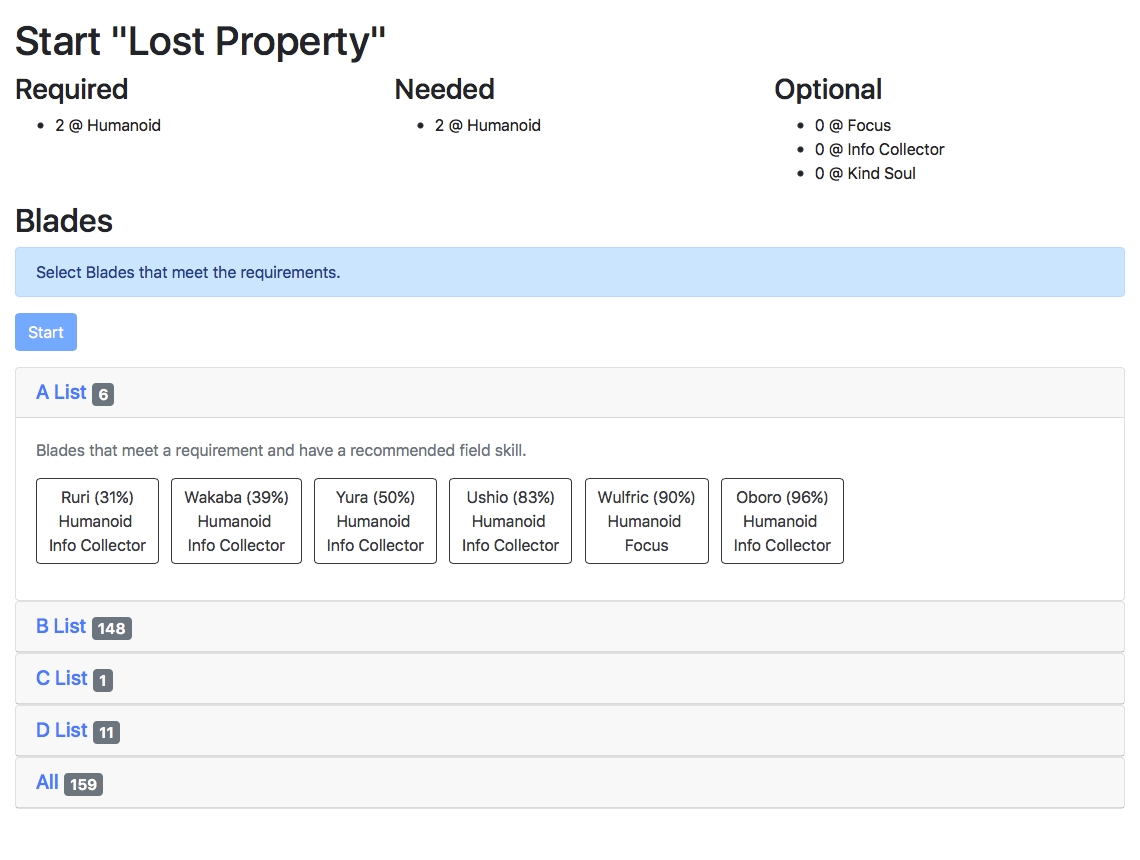
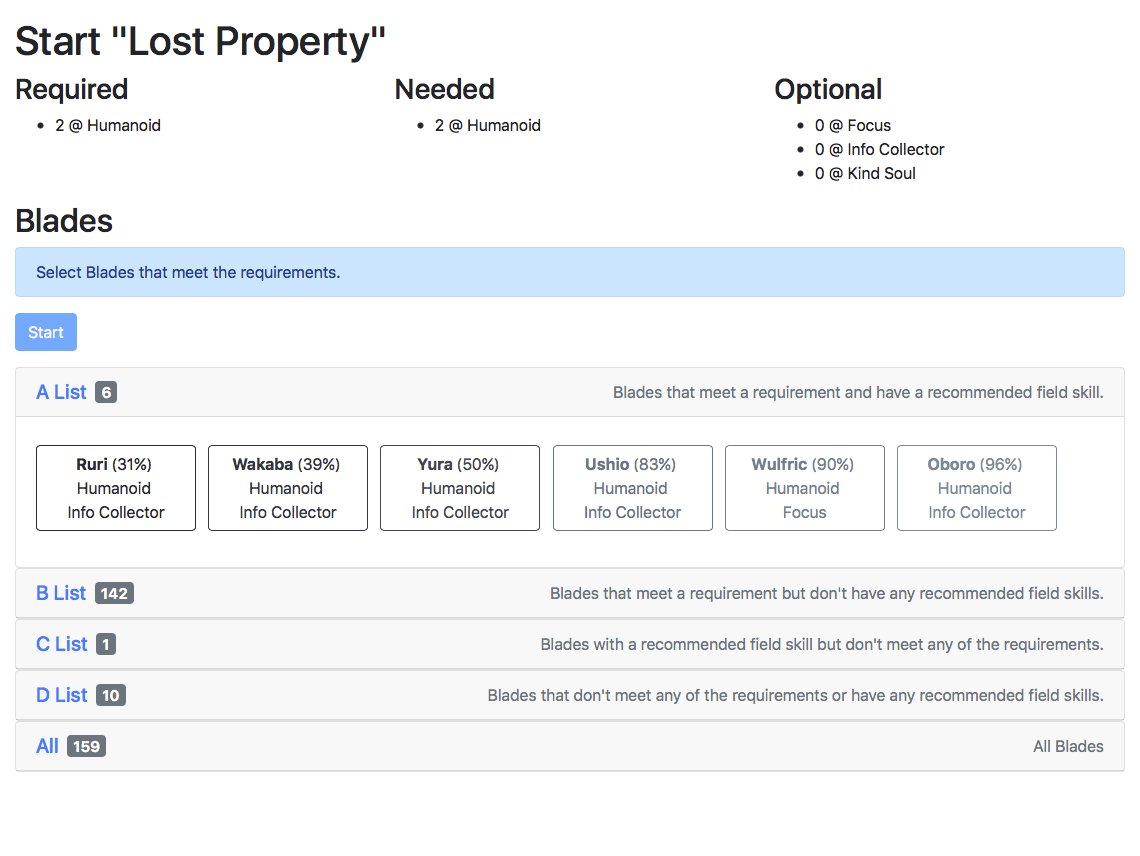
Update the start mission page

diff --git a/assets/scss/_merc_mission.scss b/assets/scss/_merc_mission.scss
@@ -1,3 +1,5 @@
+@import "~bootstrap/scss/bootstrap";
+
 #merc_mission_form_prerequisites,
 #merc_mission_form_field_skills {
     column-width: 12rem;
@@ -18,4 +20,43 @@
 
 .xeno2--mercmission--list--action {
     white-space: nowrap;
+}
+
+.xeno2--mercmission--blade-select-list {
+    text-align: justify-all;
+
+    li {
+        margin-top: $list-inline-padding;
+    }
+
+    .xeno2--mercmission--blade-select-list--button {
+        width: 10rem;
+
+        .xeno2--mercmission--blade-select-list--blade-name {
+            font-weight: bold;
+        }
+        .xeno2--mercmission--blade-select-list--affinity {
+            color: $text-muted;
+        }
+
+        // Vary the grayness with the affinity percentage.
+        @for $pct from 0 through 100 {
+            &--#{$pct} {
+                $buttonColor: change_color($dark, $lightness: $pct/1.8);
+                $textColor: change_color($body-color, $lightness: $pct/1.8);
+                $mutedTextColor: change_color($text-muted, $lightness: $pct/1.8);
+
+                border-color: $buttonColor;
+                color: $textColor;
+                .xeno2--mercmission--blade-select-list--affinity {
+                    color: $mutedTextColor;
+                }
+
+                &:disabled {
+                    border-color: $gray-900;
+                    border-width: $btn-border-width*3;
+                }
+            }
+        }
+    }
 }
